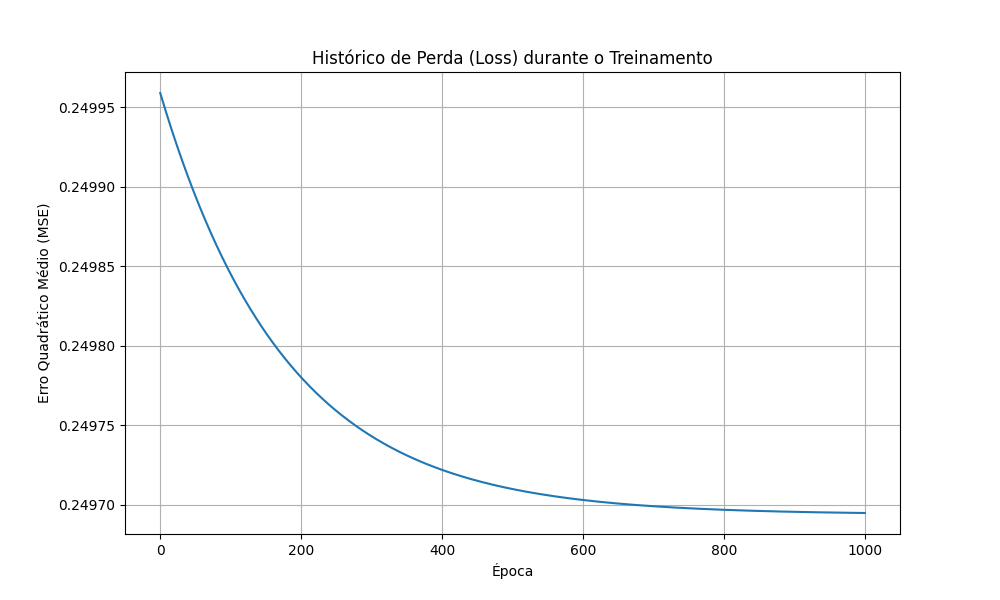
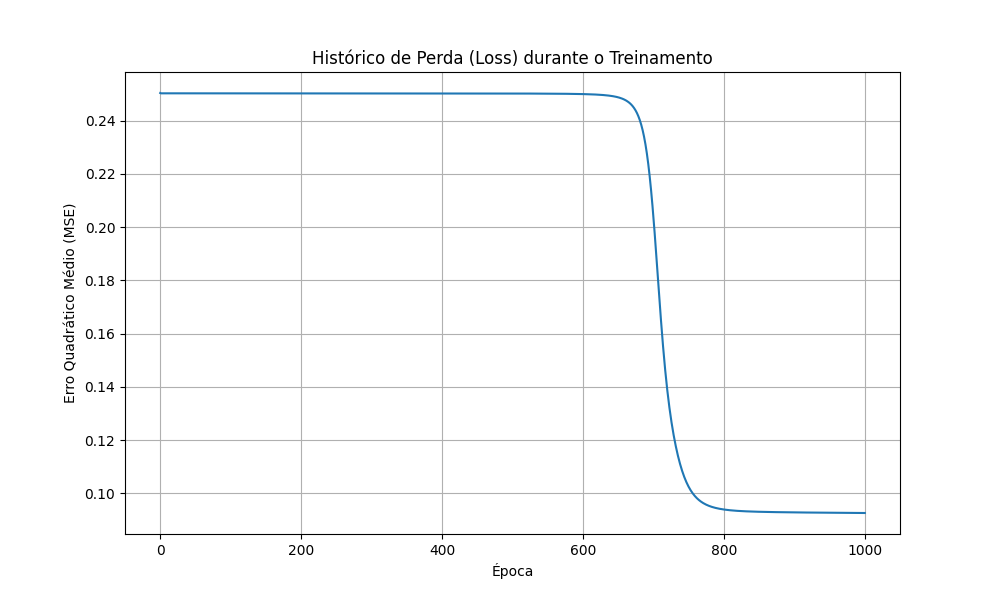
Versão inicial funcional da rede neural

diff --git a/src/modular_nn_lib/network.py b/src/modular_nn_lib/network.py
@@ -1,6 +1,5 @@
 import numpy as np
 
-# A classe principal que gerencia a rede
 class NeuralNetwork:
     def __init__(self, loss: 'Loss', optimizer: 'Optimizer'):
         self.layers = []
@@ -16,45 +15,68 @@ class NeuralNetwork:
             output = layer.forward(output)
         return output
 
-    def train(self, X_train, y_train, epochs):
-        history = [] # Para guardar o histórico da perda média da época
+    # ======================================================================
+    # MÉTODO TRAIN MODIFICADO PARA ACEITAR batch_size
+    # ======================================================================
+    def train(self, X_train, y_train, epochs, batch_size=None):
+        """
+        Treina a rede neural.
+        
+        Parâmetros:
+        - X_train, y_train: Dados de treinamento
+        - epochs: Número de épocas
+        - batch_size: Tamanho do lote.
+            - Se None (Padrão): Usa Batch Gradient Descent (batch_size = N)
+            - Se 1: Usa Stochastic Gradient Descent
+            - Se > 1: Usa Mini-Batch Gradient Descent
+        """
+        history = []
         n_samples = len(X_train)
         
+        # Define o tamanho do batch
+        # Se batch_size não for fornecido, o padrão é BGD
+        if batch_size is None:
+            batch_size = n_samples
+            
         for epoch in range(epochs):
-            # Acumulador para a perda da época
             epoch_loss = 0
-
-            # Embaralha os dados e rótulos juntos
+            
+            # Embaralha os dados a cada época (bom para SGD e MBGD)
             permutation = np.random.permutation(n_samples)
             X_train_shuffled = X_train[permutation]
             y_train_shuffled = y_train[permutation]
             
-            # Loop interno que itera sobre cada amostra individual
-            for i in range(n_samples):                
-                # Pega a amostra 'i'
-                # Usamos slicing [i:i+1] para manter o formato 2D (ex: (1, 2))
-                x_i = X_train[i:i+1]
-                y_i = y_train[i:i+1]
+            # -----------------------------------------------------------------
+            # NOVO: Loop de Mini-Batch
+            # Itera sobre os dados em "pedaços" (batches)
+            # -----------------------------------------------------------------
+            for i in range(0, n_samples, batch_size):
+                # Define o início e o fim do batch atual
+                end = i + batch_size
+                x_batch = X_train_shuffled[i:end]
+                y_batch = y_train_shuffled[i:end]
+
+                # 1. Forward Pass (para UM batch)
+                y_pred_batch = self.predict(x_batch)
                 
-                # 1. Forward Pass (para UMA amostra)
-                y_pred_i = self.predict(x_i)
+                # 2. Calcular a Perda (Loss) (para UM batch)
+                # O MSE já é uma média, então ponderamos pelo tamanho do batch
+                loss = self.loss_func.forward(y_pred_batch, y_batch)
+                epoch_loss += loss * len(x_batch)
                 
-                # 2. Calcular a Perda (Loss) (para UMA amostra)
-                loss = self.loss_func.forward(y_pred_i, y_i)
-                epoch_loss += loss
+                # 3. Backward Pass (Backpropagation) (para UM batch)
                 
-                # 3. Backward Pass (Backpropagation) (para UMA amostra)
+                # Gradiente inicial da perda
+                gradient = self.loss_func.backward(y_pred_batch, y_batch)
                 
-                # Gradiente inicial da perda (para UMA amostra)
-                gradient = self.loss_func.backward(y_pred_i, y_i)
-                
-                # Propaga o gradiente para trás
-                # O otimizador será chamado DENTRO de cada 'layer.backward'
-                # e os pesos serão atualizados a cada chamada.
+                # Propaga o gradiente e atualiza os pesos
                 for layer in reversed(self.layers):
                     gradient = layer.backward(gradient, self.optimizer)
             
-            # Calcula a perda média da época e armazena no histórico
+            # Fim do loop dos batches
+            # -----------------------------------------------------------------
+            
+            # Calcula a perda média da época
             average_epoch_loss = epoch_loss / n_samples
             history.append(average_epoch_loss)
             

diff --git a/test_local.py b/test_local.py
@@ -3,38 +3,64 @@ import matplotlib.pyplot as plt
 from sklearn.datasets import make_moons
 from sklearn.model_selection import train_test_split
 
-# Importa as classes da SUA biblioteca
-from modular_nn_lib import NeuralNetwork, DenseLayer, Sigmoid, MSE, SGD
+from modular_nn_lib import NeuralNetwork, DenseLayer, Sigmoid, ReLU, MSE, SGD
 
 print("Iniciando teste local da biblioteca neural...")
 
-# 1. Gerar dados de teste (problema "duas luas")
+# 1. Gerar dados de teste
 X, y = make_moons(n_samples=500, noise=0.2, random_state=42)
-y = y.reshape(-1, 1) # Ajusta o formato do y para (n_samples, 1)
-
+y = y.reshape(-1, 1)
 X_train, X_test, y_train, y_test = train_test_split(X, y, test_size=0.2, random_state=42)
 
-# 2. Construir a Rede Neural
-# (Vamos criar uma rede com 2 camadas escondidas)
-nn = NeuralNetwork(loss=MSE(), optimizer=SGD(learning_rate=0.01))
+# ======================================================================
+# EXEMPLO 1: BGD (Batch Gradient Descent) - O Padrão
+# ======================================================================
+print("\n--- Treinando com BATCH Gradient Descent (Padrão) ---")
+nn_bgd = NeuralNetwork(loss=MSE(), optimizer=SGD(learning_rate=1.0))
+nn_bgd.add(DenseLayer(2, 5, ReLU()))
+nn_bgd.add(DenseLayer(5, 5, ReLU()))
+nn_bgd.add(DenseLayer(5, 1, Sigmoid()))
 
-nn.add(DenseLayer(input_size=2, output_size=5, activation=Sigmoid()))
-nn.add(DenseLayer(input_size=5, output_size=5, activation=Sigmoid()))
-nn.add(DenseLayer(input_size=5, output_size=1, activation=Sigmoid()))
+# Chamada padrão: batch_size=None (ou omitido)
+history_bgd = nn_bgd.train(X_train, y_train, epochs=1000) 
 
-# 3. Treinar a Rede
-print("Treinando a rede...")
-history = nn.train(X_train, y_train, epochs=1000)
+# ======================================================================
+# EXEMPLO 2: SGD (Stochastic Gradient Descent)
+# ======================================================================
+print("\n--- Treinando com STOCHASTIC Gradient Descent ---")
+nn_sgd = NeuralNetwork(loss=MSE(), optimizer=SGD(learning_rate=0.01))
+nn_sgd.add(DenseLayer(2, 5, ReLU()))
+nn_sgd.add(DenseLayer(5, 5, ReLU()))
+nn_sgd.add(DenseLayer(5, 1, Sigmoid()))
 
-# 4. Avaliar e Visualizar
-print("Treinamento concluído.")
+# Chamada com batch_size=1
+history_sgd = nn_sgd.train(X_train, y_train, epochs=1000, batch_size=1) 
 
-# Plotar o histórico da perda
-plt.figure(figsize=(10, 6))
-plt.plot(history)
-plt.title('Histórico de Perda (Loss) durante o Treinamento')
+# ======================================================================
+# EXEMPLO 3: MBGD (Mini-Batch Gradient Descent)
+# ======================================================================
+print("\n--- Treinando com MINI-BATCH Gradient Descent ---")
+nn_mbgd = NeuralNetwork(loss=MSE(), optimizer=SGD(learning_rate=0.1))
+nn_mbgd.add(DenseLayer(2, 5, ReLU()))
+nn_mbgd.add(DenseLayer(5, 5, ReLU()))
+nn_mbgd.add(DenseLayer(5, 1, Sigmoid()))
+
+# Chamada com batch_size=32 (um valor comum)
+history_mbgd = nn_mbgd.train(X_train, y_train, epochs=1000, batch_size=32) 
+
+# ======================================================================
+# Visualização Comparativa
+# ======================================================================
+print("\nGerando gráfico comparativo de perda...")
+plt.figure(figsize=(12, 7))
+plt.plot(history_bgd, label='BGD (Padrão)', linestyle='-', linewidth=2)
+plt.plot(history_sgd, label='SGD (batch_size=1)', linestyle='--', alpha=0.7)
+plt.plot(history_mbgd, label='MBGD (batch_size=32)', linestyle=':', linewidth=2)
+plt.title('Comparação do Histórico de Perda (Loss)')
 plt.xlabel('Época')
 plt.ylabel('Erro Quadrático Médio (MSE)')
+plt.legend()
 plt.grid(True)
-plt.savefig('local_loss_history.png')
-print("Gráfico do histórico de perda salvo como 'local_loss_history.png'")
+#plt.ylim(0, 0.25) # Limita o eixo Y para melhor visualização
+plt.savefig('local_loss_comparison.png')
+print("Gráfico salvo como 'local_loss_comparison.png'")

diff --git a/src/modular_nn_lib/layers.py b/src/modular_nn_lib/layers.py
@@ -15,7 +15,7 @@ class DenseLayer(Layer):
         self.activation = activation
         # TODO: Inicializar pesos e bias (ex: com np.random.randn)
         self.weights = np.random.randn(input_size, output_size) * 0.01
-        self.bias = np.zeros((1, output_size))
+        self.bias = np.full((1, output_size), 0.01)
     
     def forward(self, input_data):
         self.input = input_data
@@ -27,15 +27,17 @@ class DenseLayer(Layer):
     def backward(self, output_gradient, optimizer):
         # TODO: Aplicar a derivada da função de ativação
         activation_gradient = self.activation.backward(output_gradient)
+
+        # Calcule os gradientes MÉDIOS dividindo pelo N (tamanho do batch)        
+        n_samples = len(self.input)
         
-        # TODO: Calcular os gradientes para pesos e bias
-        self.grad_weights = np.dot(self.input.T, activation_gradient)
-        self.grad_bias = np.sum(activation_gradient, axis=0, keepdims=True)
+        self.grad_weights = np.dot(self.input.T, activation_gradient) / n_samples
+        self.grad_bias = np.mean(activation_gradient, axis=0, keepdims=True)
         
         # TODO: Calcular o gradiente a ser passado para a camada anterior
         input_gradient = np.dot(activation_gradient, self.weights.T)
         
         # TODO: Usar o otimizador para atualizar os pesos
         optimizer.update_params(self)
-        
+
         return input_gradient

diff --git a/src/modular_nn_lib/activations.py b/src/modular_nn_lib/activations.py
@@ -18,3 +18,15 @@ class Sigmoid(Activation):
     def backward(self, output_gradient):
         # TODO: Calcular a derivada da sigmoid (gradiente * sigmoid * (1 - sigmoid))
         return output_gradient * self.output * (1 - self.output)
+    
+class ReLU(Activation):
+    def forward(self, input_data):
+        # A ReLU é simplesmente max(0, x)
+        self.input = input_data
+        self.output = np.maximum(0, self.input)
+        return self.output
+    
+    def backward(self, output_gradient):
+        # A derivada da ReLU é 1 se x > 0, e 0 caso contrário.
+        # Multiplicamos o gradiente de entrada por essa derivada.
+        return output_gradient * (self.input > 0)

diff --git a/src/modular_nn_lib/losses.py b/src/modular_nn_lib/losses.py
@@ -18,4 +18,5 @@ class MSE(Loss):
     def backward(self, y_pred, y_true):
         # TODO: Calcular a derivada do MSE
         # Dica: 2 * (y_pred - y_true) / np.size(y_true)
-        return 2 * (y_pred - y_true) / np.size(y_true)
+        # return 2 * (y_pred - y_true) / np.size(y_true)
+        return 2 * (y_pred - y_true)

diff --git a/src/modular_nn_lib/__init__.py b/src/modular_nn_lib/__init__.py
@@ -1,5 +1,5 @@
 from .network import NeuralNetwork
 from .layers import DenseLayer
-from .activations import Sigmoid, Activation
+from .activations import Sigmoid, ReLU, Activation
 from .losses import MSE, Loss
 from .optimizers import SGD, Optimizer
